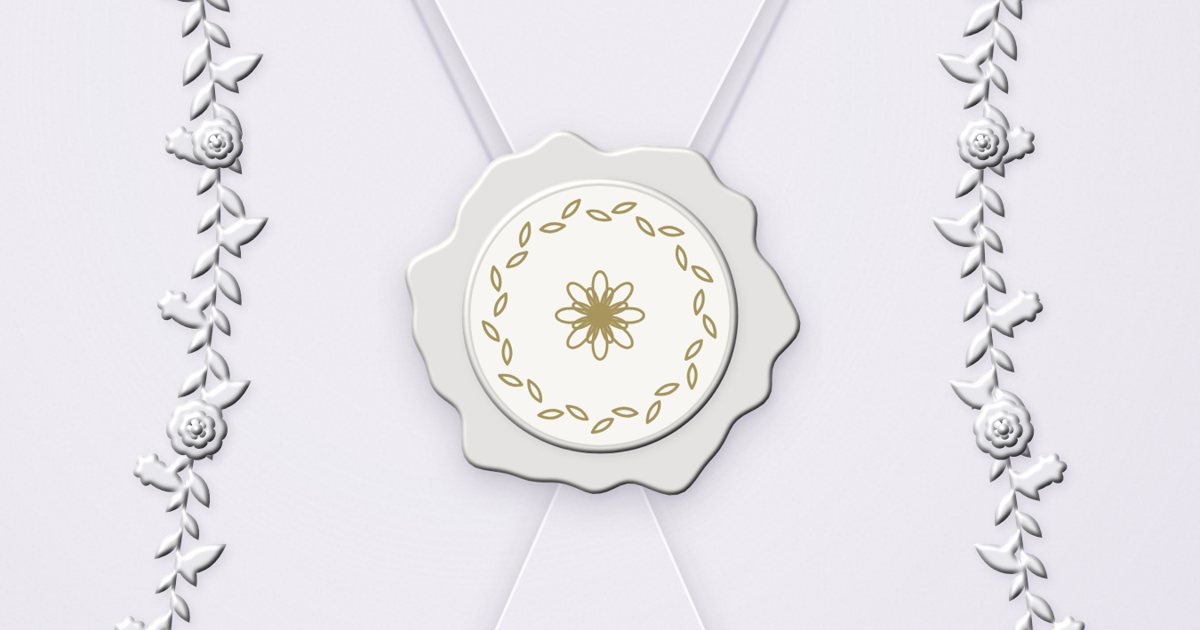
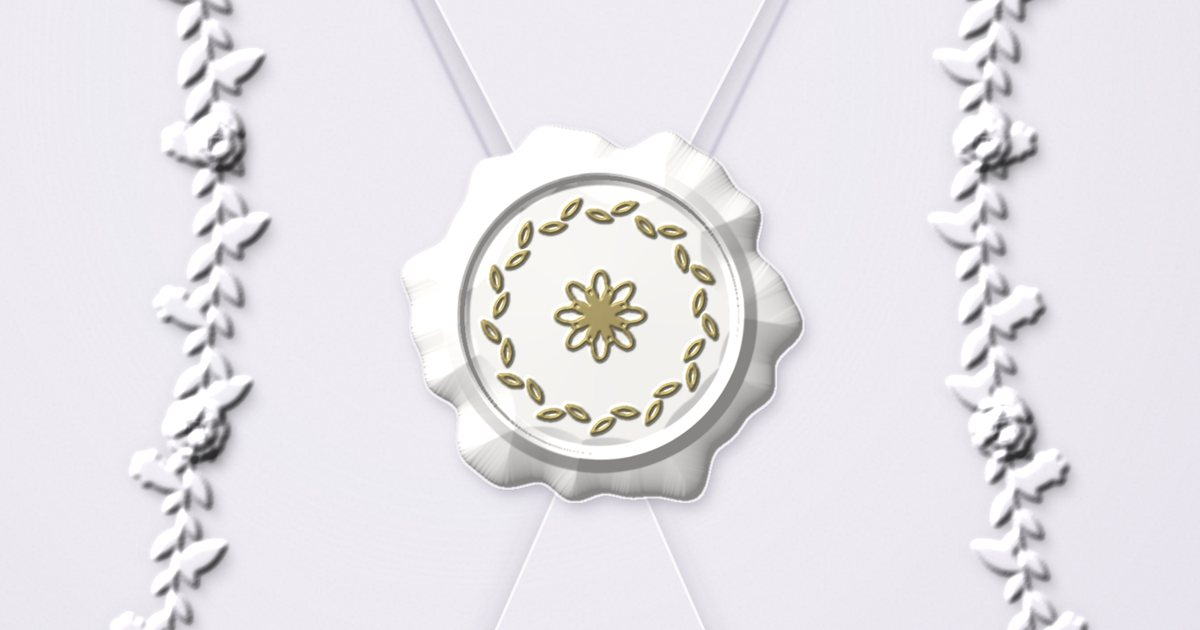
Realistic relief envelope
Claude-Session: https://claude.ai/code/session_012TaZ8zuKBP6pkFoWipGzvm

Changed region(s): [[0.3392, 0.2111, 0.6783, 0.8143], [0.7708, 0.0, 0.925, 1.0], [0.0925, 0.0, 0.2467, 1.0]]

diff --git a/ne/janti/index.html b/ne/janti/index.html
@@ -20,11 +20,12 @@ body.rd{overflow-y:auto}
 #flap .bk{transform:rotateX(180deg)}
 #seal{position:absolute;left:50%;top:44.5%;width:37%;height:auto;transform:translate(-50%,-50%);will-change:transform}
 #rays{position:absolute;left:50%;top:47%;width:260%;aspect-ratio:1;transform:translate(-50%,-50%) scale(.6);opacity:0;pointer-events:none;will-change:transform,opacity;mix-blend-mode:screen;
- background:radial-gradient(circle,#fffdf6 0,#fff1d8b0 3%,#ffe6c050 8%,transparent 16%),repeating-conic-gradient(from 2deg,#ffe8c400 0deg,#ffeccfdd 1.4deg,#ffe8c400 3.4deg,#ffe8c400 7deg,#ffe3b8a0 8.2deg,#ffe8c400 10deg,#ffe8c400 13deg);
+ background:radial-gradient(circle,#fffdf6 0,#ffe9c6c8 3%,#ffd9a860 8%,transparent 16%),repeating-conic-gradient(from 2deg,#ffe8c400 0deg,#ffd9a6ee 1.4deg,#ffe8c400 3.4deg,#ffe8c400 7deg,#ffd59cb8 8.2deg,#ffe8c400 10deg,#ffe8c400 13deg);
  -webkit-mask:radial-gradient(circle,transparent 2%,#000 4%,#000c 14%,#0005 27%,transparent 46%);mask:radial-gradient(circle,transparent 2%,#000 4%,#000c 14%,#0005 27%,transparent 46%)}
 
 #hole{position:absolute;left:0;top:0;width:100%;height:100%;opacity:0;pointer-events:none;will-change:opacity,transform;transform-origin:50% 47%;clip-path:polygon(41% 40%,59% 40%,61.5% 47%,59% 55%,41% 55%,38.5% 47%);background:radial-gradient(ellipse 16% 10% at 50% 47%,#ffffff 0,#f6f8ff 45%,#e2e6fa 100%);filter:blur(1.5px)}
 #wedge{position:absolute;inset:0;opacity:0;pointer-events:none;will-change:opacity;background:linear-gradient(90deg,transparent 22%,#7d769140 38%,transparent 41%,transparent 59%,#7d769140 62%,transparent 78%);clip-path:polygon(0 0,100% 0,62% 47%,100% 100%,0 100%,38% 47%)}
+#fsh{position:absolute;inset:0;opacity:0;pointer-events:none;background:linear-gradient(#0000 20%,#3c35501f 46%);clip-path:polygon(0 0,100% 0,50% 44.5%)}
 #flash{position:fixed;inset:0;margin:0 auto;max-width:460px;background:#fffdf9;opacity:0;pointer-events:none;z-index:15;will-change:opacity}
 .spk{position:absolute;width:14px;height:14px;margin:-7px 0 0 -7px;opacity:0;pointer-events:none;will-change:transform,opacity;background:radial-gradient(circle,#fff 0,#fff 18%,transparent 60%)}
 .spk:before,.spk:after{content:'';position:absolute;left:50%;top:50%;background:linear-gradient(90deg,transparent,#fff,transparent);transform:translate(-50%,-50%)}
@@ -113,7 +114,7 @@ body.rd #mute.on{display:flex}
  <div id="wedge"></div><div id="hole"></div><div id="rays"></div>
  <img class="lay glow" id="g1" src="../../assets2/env-glow.webp" alt="">
  <div id="spks"></div>
- <div id="flap"><div class="fc"><img class="lay" src="../../assets2/env-flap.webp" alt=""><img class="lay glow" id="g2" src="../../assets2/env-glowflap.webp" alt=""><img id="seal" src="../../assets2/seal.webp" alt=""></div><div class="bk"><img class="lay" src="../../assets2/env-flapback.webp" alt=""></div></div>
+ <div id="flap"><div class="fc"><img class="lay" src="../../assets2/env-flap.webp" alt=""><img class="lay glow" id="g2" src="../../assets2/env-glowflap.webp" alt=""><div id="fsh"></div><img id="seal" src="../../assets2/seal.webp" alt=""></div><div class="bk"><img class="lay" src="../../assets2/env-flapback.webp" alt=""></div></div>
 </div><div class="forn" id="forn"></div><div class="hint">खोल्न ट्याप गर्नुहोस्</div><b id="tagn" hidden></b></div>
 <div id="flash"></div>
 <div id="app">
@@ -219,7 +220,7 @@ function open(user){if(opened)return;if(!ready){want=user;return}opened=true;env
  SP.forEach(function(s,i){var dl=300+Math.random()*2500;an(s,[{opacity:0,transform:'scale(.2) rotate(0deg)'},{opacity:1,transform:'scale(1) rotate(45deg)',offset:.4},{opacity:0,transform:'scale(.3) rotate(90deg)'}],{duration:700+Math.random()*500,delay:dl,easing:'ease-in-out'})});
  // 3. top flap lifts open on its hinge (towards the viewer) carrying the seal
  an(flap,[{transform:'translateZ(1px) rotateX(0deg)'},{transform:'translateZ(1px) rotateX(6deg)',offset:.2},{transform:'translateZ(1px) rotateX(47deg)'}],{duration:2300,delay:3000,easing:'cubic-bezier(.45,0,.25,1)'});
- var hole=$('hole'),wedge=$('wedge');
+ var hole=$('hole'),wedge=$('wedge');an($('fsh'),[{opacity:0},{opacity:1}],{duration:2300,delay:3000,easing:'ease-in'});
  an(wedge,[{opacity:0},{opacity:1}],{duration:1600,delay:3500,easing:'ease-out'});
  an(hole,[{opacity:0,transform:'scaleY(.15)'},{opacity:1,transform:'scaleY(1)'}],{duration:1500,delay:3700,easing:'cubic-bezier(.3,0,.2,1)'});
  // 4. light pours out of the opening

diff --git a/ne/reception/index.html b/ne/reception/index.html
@@ -20,11 +20,12 @@ body.rd{overflow-y:auto}
 #flap .bk{transform:rotateX(180deg)}
 #seal{position:absolute;left:50%;top:44.5%;width:37%;height:auto;transform:translate(-50%,-50%);will-change:transform}
 #rays{position:absolute;left:50%;top:47%;width:260%;aspect-ratio:1;transform:translate(-50%,-50%) scale(.6);opacity:0;pointer-events:none;will-change:transform,opacity;mix-blend-mode:screen;
- background:radial-gradient(circle,#fffdf6 0,#fff1d8b0 3%,#ffe6c050 8%,transparent 16%),repeating-conic-gradient(from 2deg,#ffe8c400 0deg,#ffeccfdd 1.4deg,#ffe8c400 3.4deg,#ffe8c400 7deg,#ffe3b8a0 8.2deg,#ffe8c400 10deg,#ffe8c400 13deg);
+ background:radial-gradient(circle,#fffdf6 0,#ffe9c6c8 3%,#ffd9a860 8%,transparent 16%),repeating-conic-gradient(from 2deg,#ffe8c400 0deg,#ffd9a6ee 1.4deg,#ffe8c400 3.4deg,#ffe8c400 7deg,#ffd59cb8 8.2deg,#ffe8c400 10deg,#ffe8c400 13deg);
  -webkit-mask:radial-gradient(circle,transparent 2%,#000 4%,#000c 14%,#0005 27%,transparent 46%);mask:radial-gradient(circle,transparent 2%,#000 4%,#000c 14%,#0005 27%,transparent 46%)}
 
 #hole{position:absolute;left:0;top:0;width:100%;height:100%;opacity:0;pointer-events:none;will-change:opacity,transform;transform-origin:50% 47%;clip-path:polygon(41% 40%,59% 40%,61.5% 47%,59% 55%,41% 55%,38.5% 47%);background:radial-gradient(ellipse 16% 10% at 50% 47%,#ffffff 0,#f6f8ff 45%,#e2e6fa 100%);filter:blur(1.5px)}
 #wedge{position:absolute;inset:0;opacity:0;pointer-events:none;will-change:opacity;background:linear-gradient(90deg,transparent 22%,#7d769140 38%,transparent 41%,transparent 59%,#7d769140 62%,transparent 78%);clip-path:polygon(0 0,100% 0,62% 47%,100% 100%,0 100%,38% 47%)}
+#fsh{position:absolute;inset:0;opacity:0;pointer-events:none;background:linear-gradient(#0000 20%,#3c35501f 46%);clip-path:polygon(0 0,100% 0,50% 44.5%)}
 #flash{position:fixed;inset:0;margin:0 auto;max-width:460px;background:#fffdf9;opacity:0;pointer-events:none;z-index:15;will-change:opacity}
 .spk{position:absolute;width:14px;height:14px;margin:-7px 0 0 -7px;opacity:0;pointer-events:none;will-change:transform,opacity;background:radial-gradient(circle,#fff 0,#fff 18%,transparent 60%)}
 .spk:before,.spk:after{content:'';position:absolute;left:50%;top:50%;background:linear-gradient(90deg,transparent,#fff,transparent);transform:translate(-50%,-50%)}
@@ -113,7 +114,7 @@ body.rd #mute.on{display:flex}
  <div id="wedge"></div><div id="hole"></div><div id="rays"></div>
  <img class="lay glow" id="g1" src="../../assets2/env-glow.webp" alt="">
  <div id="spks"></div>
- <div id="flap"><div class="fc"><img class="lay" src="../../assets2/env-flap.webp" alt=""><img class="lay glow" id="g2" src="../../assets2/env-glowflap.webp" alt=""><img id="seal" src="../../assets2/seal.webp" alt=""></div><div class="bk"><img class="lay" src="../../assets2/env-flapback.webp" alt=""></div></div>
+ <div id="flap"><div class="fc"><img class="lay" src="../../assets2/env-flap.webp" alt=""><img class="lay glow" id="g2" src="../../assets2/env-glowflap.webp" alt=""><div id="fsh"></div><img id="seal" src="../../assets2/seal.webp" alt=""></div><div class="bk"><img class="lay" src="../../assets2/env-flapback.webp" alt=""></div></div>
 </div><div class="forn" id="forn"></div><div class="hint">खोल्न ट्याप गर्नुहोस्</div><b id="tagn" hidden></b></div>
 <div id="flash"></div>
 <div id="app">
@@ -219,7 +220,7 @@ function open(user){if(opened)return;if(!ready){want=user;return}opened=true;env
  SP.forEach(function(s,i){var dl=300+Math.random()*2500;an(s,[{opacity:0,transform:'scale(.2) rotate(0deg)'},{opacity:1,transform:'scale(1) rotate(45deg)',offset:.4},{opacity:0,transform:'scale(.3) rotate(90deg)'}],{duration:700+Math.random()*500,delay:dl,easing:'ease-in-out'})});
  // 3. top flap lifts open on its hinge (towards the viewer) carrying the seal
  an(flap,[{transform:'translateZ(1px) rotateX(0deg)'},{transform:'translateZ(1px) rotateX(6deg)',offset:.2},{transform:'translateZ(1px) rotateX(47deg)'}],{duration:2300,delay:3000,easing:'cubic-bezier(.45,0,.25,1)'});
- var hole=$('hole'),wedge=$('wedge');
+ var hole=$('hole'),wedge=$('wedge');an($('fsh'),[{opacity:0},{opacity:1}],{duration:2300,delay:3000,easing:'ease-in'});
  an(wedge,[{opacity:0},{opacity:1}],{duration:1600,delay:3500,easing:'ease-out'});
  an(hole,[{opacity:0,transform:'scaleY(.15)'},{opacity:1,transform:'scaleY(1)'}],{duration:1500,delay:3700,easing:'cubic-bezier(.3,0,.2,1)'});
  // 4. light pours out of the opening

diff --git a/ne/wedding/index.html b/ne/wedding/index.html
@@ -20,11 +20,12 @@ body.rd{overflow-y:auto}
 #flap .bk{transform:rotateX(180deg)}
 #seal{position:absolute;left:50%;top:44.5%;width:37%;height:auto;transform:translate(-50%,-50%);will-change:transform}
 #rays{position:absolute;left:50%;top:47%;width:260%;aspect-ratio:1;transform:translate(-50%,-50%) scale(.6);opacity:0;pointer-events:none;will-change:transform,opacity;mix-blend-mode:screen;
- background:radial-gradient(circle,#fffdf6 0,#fff1d8b0 3%,#ffe6c050 8%,transparent 16%),repeating-conic-gradient(from 2deg,#ffe8c400 0deg,#ffeccfdd 1.4deg,#ffe8c400 3.4deg,#ffe8c400 7deg,#ffe3b8a0 8.2deg,#ffe8c400 10deg,#ffe8c400 13deg);
+ background:radial-gradient(circle,#fffdf6 0,#ffe9c6c8 3%,#ffd9a860 8%,transparent 16%),repeating-conic-gradient(from 2deg,#ffe8c400 0deg,#ffd9a6ee 1.4deg,#ffe8c400 3.4deg,#ffe8c400 7deg,#ffd59cb8 8.2deg,#ffe8c400 10deg,#ffe8c400 13deg);
  -webkit-mask:radial-gradient(circle,transparent 2%,#000 4%,#000c 14%,#0005 27%,transparent 46%);mask:radial-gradient(circle,transparent 2%,#000 4%,#000c 14%,#0005 27%,transparent 46%)}
 
 #hole{position:absolute;left:0;top:0;width:100%;height:100%;opacity:0;pointer-events:none;will-change:opacity,transform;transform-origin:50% 47%;clip-path:polygon(41% 40%,59% 40%,61.5% 47%,59% 55%,41% 55%,38.5% 47%);background:radial-gradient(ellipse 16% 10% at 50% 47%,#ffffff 0,#f6f8ff 45%,#e2e6fa 100%);filter:blur(1.5px)}
 #wedge{position:absolute;inset:0;opacity:0;pointer-events:none;will-change:opacity;background:linear-gradient(90deg,transparent 22%,#7d769140 38%,transparent 41%,transparent 59%,#7d769140 62%,transparent 78%);clip-path:polygon(0 0,100% 0,62% 47%,100% 100%,0 100%,38% 47%)}
+#fsh{position:absolute;inset:0;opacity:0;pointer-events:none;background:linear-gradient(#0000 20%,#3c35501f 46%);clip-path:polygon(0 0,100% 0,50% 44.5%)}
 #flash{position:fixed;inset:0;margin:0 auto;max-width:460px;background:#fffdf9;opacity:0;pointer-events:none;z-index:15;will-change:opacity}
 .spk{position:absolute;width:14px;height:14px;margin:-7px 0 0 -7px;opacity:0;pointer-events:none;will-change:transform,opacity;background:radial-gradient(circle,#fff 0,#fff 18%,transparent 60%)}
 .spk:before,.spk:after{content:'';position:absolute;left:50%;top:50%;background:linear-gradient(90deg,transparent,#fff,transparent);transform:translate(-50%,-50%)}
@@ -113,7 +114,7 @@ body.rd #mute.on{display:flex}
  <div id="wedge"></div><div id="hole"></div><div id="rays"></div>
  <img class="lay glow" id="g1" src="../../assets2/env-glow.webp" alt="">
  <div id="spks"></div>
- <div id="flap"><div class="fc"><img class="lay" src="../../assets2/env-flap.webp" alt=""><img class="lay glow" id="g2" src="../../assets2/env-glowflap.webp" alt=""><img id="seal" src="../../assets2/seal.webp" alt=""></div><div class="bk"><img class="lay" src="../../assets2/env-flapback.webp" alt=""></div></div>
+ <div id="flap"><div class="fc"><img class="lay" src="../../assets2/env-flap.webp" alt=""><img class="lay glow" id="g2" src="../../assets2/env-glowflap.webp" alt=""><div id="fsh"></div><img id="seal" src="../../assets2/seal.webp" alt=""></div><div class="bk"><img class="lay" src="../../assets2/env-flapback.webp" alt=""></div></div>
 </div><div class="forn" id="forn"></div><div class="hint">खोल्न ट्याप गर्नुहोस्</div><b id="tagn" hidden></b></div>
 <div id="flash"></div>
 <div id="app">
@@ -219,7 +220,7 @@ function open(user){if(opened)return;if(!ready){want=user;return}opened=true;env
  SP.forEach(function(s,i){var dl=300+Math.random()*2500;an(s,[{opacity:0,transform:'scale(.2) rotate(0deg)'},{opacity:1,transform:'scale(1) rotate(45deg)',offset:.4},{opacity:0,transform:'scale(.3) rotate(90deg)'}],{duration:700+Math.random()*500,delay:dl,easing:'ease-in-out'})});
  // 3. top flap lifts open on its hinge (towards the viewer) carrying the seal
  an(flap,[{transform:'translateZ(1px) rotateX(0deg)'},{transform:'translateZ(1px) rotateX(6deg)',offset:.2},{transform:'translateZ(1px) rotateX(47deg)'}],{duration:2300,delay:3000,easing:'cubic-bezier(.45,0,.25,1)'});
- var hole=$('hole'),wedge=$('wedge');
+ var hole=$('hole'),wedge=$('wedge');an($('fsh'),[{opacity:0},{opacity:1}],{duration:2300,delay:3000,easing:'ease-in'});
  an(wedge,[{opacity:0},{opacity:1}],{duration:1600,delay:3500,easing:'ease-out'});
  an(hole,[{opacity:0,transform:'scaleY(.15)'},{opacity:1,transform:'scaleY(1)'}],{duration:1500,delay:3700,easing:'cubic-bezier(.3,0,.2,1)'});
  // 4. light pours out of the opening

diff --git a/janti/index.html b/janti/index.html
@@ -20,11 +20,12 @@ body.rd{overflow-y:auto}
 #flap .bk{transform:rotateX(180deg)}
 #seal{position:absolute;left:50%;top:44.5%;width:37%;height:auto;transform:translate(-50%,-50%);will-change:transform}
 #rays{position:absolute;left:50%;top:47%;width:260%;aspect-ratio:1;transform:translate(-50%,-50%) scale(.6);opacity:0;pointer-events:none;will-change:transform,opacity;mix-blend-mode:screen;
- background:radial-gradient(circle,#fffdf6 0,#fff1d8b0 3%,#ffe6c050 8%,transparent 16%),repeating-conic-gradient(from 2deg,#ffe8c400 0deg,#ffeccfdd 1.4deg,#ffe8c400 3.4deg,#ffe8c400 7deg,#ffe3b8a0 8.2deg,#ffe8c400 10deg,#ffe8c400 13deg);
+ background:radial-gradient(circle,#fffdf6 0,#ffe9c6c8 3%,#ffd9a860 8%,transparent 16%),repeating-conic-gradient(from 2deg,#ffe8c400 0deg,#ffd9a6ee 1.4deg,#ffe8c400 3.4deg,#ffe8c400 7deg,#ffd59cb8 8.2deg,#ffe8c400 10deg,#ffe8c400 13deg);
  -webkit-mask:radial-gradient(circle,transparent 2%,#000 4%,#000c 14%,#0005 27%,transparent 46%);mask:radial-gradient(circle,transparent 2%,#000 4%,#000c 14%,#0005 27%,transparent 46%)}
 
 #hole{position:absolute;left:0;top:0;width:100%;height:100%;opacity:0;pointer-events:none;will-change:opacity,transform;transform-origin:50% 47%;clip-path:polygon(41% 40%,59% 40%,61.5% 47%,59% 55%,41% 55%,38.5% 47%);background:radial-gradient(ellipse 16% 10% at 50% 47%,#ffffff 0,#f6f8ff 45%,#e2e6fa 100%);filter:blur(1.5px)}
 #wedge{position:absolute;inset:0;opacity:0;pointer-events:none;will-change:opacity;background:linear-gradient(90deg,transparent 22%,#7d769140 38%,transparent 41%,transparent 59%,#7d769140 62%,transparent 78%);clip-path:polygon(0 0,100% 0,62% 47%,100% 100%,0 100%,38% 47%)}
+#fsh{position:absolute;inset:0;opacity:0;pointer-events:none;background:linear-gradient(#0000 20%,#3c35501f 46%);clip-path:polygon(0 0,100% 0,50% 44.5%)}
 #flash{position:fixed;inset:0;margin:0 auto;max-width:460px;background:#fffdf9;opacity:0;pointer-events:none;z-index:15;will-change:opacity}
 .spk{position:absolute;width:14px;height:14px;margin:-7px 0 0 -7px;opacity:0;pointer-events:none;will-change:transform,opacity;background:radial-gradient(circle,#fff 0,#fff 18%,transparent 60%)}
 .spk:before,.spk:after{content:'';position:absolute;left:50%;top:50%;background:linear-gradient(90deg,transparent,#fff,transparent);transform:translate(-50%,-50%)}
@@ -113,7 +114,7 @@ body.rd #mute.on{display:flex}
  <div id="wedge"></div><div id="hole"></div><div id="rays"></div>
  <img class="lay glow" id="g1" src="../assets2/env-glow.webp" alt="">
  <div id="spks"></div>
- <div id="flap"><div class="fc"><img class="lay" src="../assets2/env-flap.webp" alt=""><img class="lay glow" id="g2" src="../assets2/env-glowflap.webp" alt=""><img id="seal" src="../assets2/seal.webp" alt=""></div><div class="bk"><img class="lay" src="../assets2/env-flapback.webp" alt=""></div></div>
+ <div id="flap"><div class="fc"><img class="lay" src="../assets2/env-flap.webp" alt=""><img class="lay glow" id="g2" src="../assets2/env-glowflap.webp" alt=""><div id="fsh"></div><img id="seal" src="../assets2/seal.webp" alt=""></div><div class="bk"><img class="lay" src="../assets2/env-flapback.webp" alt=""></div></div>
 </div><div class="forn" id="forn"></div><div class="hint">Tap to open</div><b id="tagn" hidden></b></div>
 <div id="flash"></div>
 <div id="app">
@@ -219,7 +220,7 @@ function open(user){if(opened)return;if(!ready){want=user;return}opened=true;env
  SP.forEach(function(s,i){var dl=300+Math.random()*2500;an(s,[{opacity:0,transform:'scale(.2) rotate(0deg)'},{opacity:1,transform:'scale(1) rotate(45deg)',offset:.4},{opacity:0,transform:'scale(.3) rotate(90deg)'}],{duration:700+Math.random()*500,delay:dl,easing:'ease-in-out'})});
  // 3. top flap lifts open on its hinge (towards the viewer) carrying the seal
  an(flap,[{transform:'translateZ(1px) rotateX(0deg)'},{transform:'translateZ(1px) rotateX(6deg)',offset:.2},{transform:'translateZ(1px) rotateX(47deg)'}],{duration:2300,delay:3000,easing:'cubic-bezier(.45,0,.25,1)'});
- var hole=$('hole'),wedge=$('wedge');
+ var hole=$('hole'),wedge=$('wedge');an($('fsh'),[{opacity:0},{opacity:1}],{duration:2300,delay:3000,easing:'ease-in'});
  an(wedge,[{opacity:0},{opacity:1}],{duration:1600,delay:3500,easing:'ease-out'});
  an(hole,[{opacity:0,transform:'scaleY(.15)'},{opacity:1,transform:'scaleY(1)'}],{duration:1500,delay:3700,easing:'cubic-bezier(.3,0,.2,1)'});
  // 4. light pours out of the opening

diff --git a/reception/index.html b/reception/index.html
@@ -20,11 +20,12 @@ body.rd{overflow-y:auto}
 #flap .bk{transform:rotateX(180deg)}
 #seal{position:absolute;left:50%;top:44.5%;width:37%;height:auto;transform:translate(-50%,-50%);will-change:transform}
 #rays{position:absolute;left:50%;top:47%;width:260%;aspect-ratio:1;transform:translate(-50%,-50%) scale(.6);opacity:0;pointer-events:none;will-change:transform,opacity;mix-blend-mode:screen;
- background:radial-gradient(circle,#fffdf6 0,#fff1d8b0 3%,#ffe6c050 8%,transparent 16%),repeating-conic-gradient(from 2deg,#ffe8c400 0deg,#ffeccfdd 1.4deg,#ffe8c400 3.4deg,#ffe8c400 7deg,#ffe3b8a0 8.2deg,#ffe8c400 10deg,#ffe8c400 13deg);
+ background:radial-gradient(circle,#fffdf6 0,#ffe9c6c8 3%,#ffd9a860 8%,transparent 16%),repeating-conic-gradient(from 2deg,#ffe8c400 0deg,#ffd9a6ee 1.4deg,#ffe8c400 3.4deg,#ffe8c400 7deg,#ffd59cb8 8.2deg,#ffe8c400 10deg,#ffe8c400 13deg);
  -webkit-mask:radial-gradient(circle,transparent 2%,#000 4%,#000c 14%,#0005 27%,transparent 46%);mask:radial-gradient(circle,transparent 2%,#000 4%,#000c 14%,#0005 27%,transparent 46%)}
 
 #hole{position:absolute;left:0;top:0;width:100%;height:100%;opacity:0;pointer-events:none;will-change:opacity,transform;transform-origin:50% 47%;clip-path:polygon(41% 40%,59% 40%,61.5% 47%,59% 55%,41% 55%,38.5% 47%);background:radial-gradient(ellipse 16% 10% at 50% 47%,#ffffff 0,#f6f8ff 45%,#e2e6fa 100%);filter:blur(1.5px)}
 #wedge{position:absolute;inset:0;opacity:0;pointer-events:none;will-change:opacity;background:linear-gradient(90deg,transparent 22%,#7d769140 38%,transparent 41%,transparent 59%,#7d769140 62%,transparent 78%);clip-path:polygon(0 0,100% 0,62% 47%,100% 100%,0 100%,38% 47%)}
+#fsh{position:absolute;inset:0;opacity:0;pointer-events:none;background:linear-gradient(#0000 20%,#3c35501f 46%);clip-path:polygon(0 0,100% 0,50% 44.5%)}
 #flash{position:fixed;inset:0;margin:0 auto;max-width:460px;background:#fffdf9;opacity:0;pointer-events:none;z-index:15;will-change:opacity}
 .spk{position:absolute;width:14px;height:14px;margin:-7px 0 0 -7px;opacity:0;pointer-events:none;will-change:transform,opacity;background:radial-gradient(circle,#fff 0,#fff 18%,transparent 60%)}
 .spk:before,.spk:after{content:'';position:absolute;left:50%;top:50%;background:linear-gradient(90deg,transparent,#fff,transparent);transform:translate(-50%,-50%)}
@@ -113,7 +114,7 @@ body.rd #mute.on{display:flex}
  <div id="wedge"></div><div id="hole"></div><div id="rays"></div>
  <img class="lay glow" id="g1" src="../assets2/env-glow.webp" alt="">
  <div id="spks"></div>
- <div id="flap"><div class="fc"><img class="lay" src="../assets2/env-flap.webp" alt=""><img class="lay glow" id="g2" src="../assets2/env-glowflap.webp" alt=""><img id="seal" src="../assets2/seal.webp" alt=""></div><div class="bk"><img class="lay" src="../assets2/env-flapback.webp" alt=""></div></div>
+ <div id="flap"><div class="fc"><img class="lay" src="../assets2/env-flap.webp" alt=""><img class="lay glow" id="g2" src="../assets2/env-glowflap.webp" alt=""><div id="fsh"></div><img id="seal" src="../assets2/seal.webp" alt=""></div><div class="bk"><img class="lay" src="../assets2/env-flapback.webp" alt=""></div></div>
 </div><div class="forn" id="forn"></div><div class="hint">Tap to open</div><b id="tagn" hidden></b></div>
 <div id="flash"></div>
 <div id="app">
@@ -219,7 +220,7 @@ function open(user){if(opened)return;if(!ready){want=user;return}opened=true;env
  SP.forEach(function(s,i){var dl=300+Math.random()*2500;an(s,[{opacity:0,transform:'scale(.2) rotate(0deg)'},{opacity:1,transform:'scale(1) rotate(45deg)',offset:.4},{opacity:0,transform:'scale(.3) rotate(90deg)'}],{duration:700+Math.random()*500,delay:dl,easing:'ease-in-out'})});
  // 3. top flap lifts open on its hinge (towards the viewer) carrying the seal
  an(flap,[{transform:'translateZ(1px) rotateX(0deg)'},{transform:'translateZ(1px) rotateX(6deg)',offset:.2},{transform:'translateZ(1px) rotateX(47deg)'}],{duration:2300,delay:3000,easing:'cubic-bezier(.45,0,.25,1)'});
- var hole=$('hole'),wedge=$('wedge');
+ var hole=$('hole'),wedge=$('wedge');an($('fsh'),[{opacity:0},{opacity:1}],{duration:2300,delay:3000,easing:'ease-in'});
  an(wedge,[{opacity:0},{opacity:1}],{duration:1600,delay:3500,easing:'ease-out'});
  an(hole,[{opacity:0,transform:'scaleY(.15)'},{opacity:1,transform:'scaleY(1)'}],{duration:1500,delay:3700,easing:'cubic-bezier(.3,0,.2,1)'});
  // 4. light pours out of the opening

diff --git a/wedding/index.html b/wedding/index.html
@@ -20,11 +20,12 @@ body.rd{overflow-y:auto}
 #flap .bk{transform:rotateX(180deg)}
 #seal{position:absolute;left:50%;top:44.5%;width:37%;height:auto;transform:translate(-50%,-50%);will-change:transform}
 #rays{position:absolute;left:50%;top:47%;width:260%;aspect-ratio:1;transform:translate(-50%,-50%) scale(.6);opacity:0;pointer-events:none;will-change:transform,opacity;mix-blend-mode:screen;
- background:radial-gradient(circle,#fffdf6 0,#fff1d8b0 3%,#ffe6c050 8%,transparent 16%),repeating-conic-gradient(from 2deg,#ffe8c400 0deg,#ffeccfdd 1.4deg,#ffe8c400 3.4deg,#ffe8c400 7deg,#ffe3b8a0 8.2deg,#ffe8c400 10deg,#ffe8c400 13deg);
+ background:radial-gradient(circle,#fffdf6 0,#ffe9c6c8 3%,#ffd9a860 8%,transparent 16%),repeating-conic-gradient(from 2deg,#ffe8c400 0deg,#ffd9a6ee 1.4deg,#ffe8c400 3.4deg,#ffe8c400 7deg,#ffd59cb8 8.2deg,#ffe8c400 10deg,#ffe8c400 13deg);
  -webkit-mask:radial-gradient(circle,transparent 2%,#000 4%,#000c 14%,#0005 27%,transparent 46%);mask:radial-gradient(circle,transparent 2%,#000 4%,#000c 14%,#0005 27%,transparent 46%)}
 
 #hole{position:absolute;left:0;top:0;width:100%;height:100%;opacity:0;pointer-events:none;will-change:opacity,transform;transform-origin:50% 47%;clip-path:polygon(41% 40%,59% 40%,61.5% 47%,59% 55%,41% 55%,38.5% 47%);background:radial-gradient(ellipse 16% 10% at 50% 47%,#ffffff 0,#f6f8ff 45%,#e2e6fa 100%);filter:blur(1.5px)}
 #wedge{position:absolute;inset:0;opacity:0;pointer-events:none;will-change:opacity;background:linear-gradient(90deg,transparent 22%,#7d769140 38%,transparent 41%,transparent 59%,#7d769140 62%,transparent 78%);clip-path:polygon(0 0,100% 0,62% 47%,100% 100%,0 100%,38% 47%)}
+#fsh{position:absolute;inset:0;opacity:0;pointer-events:none;background:linear-gradient(#0000 20%,#3c35501f 46%);clip-path:polygon(0 0,100% 0,50% 44.5%)}
 #flash{position:fixed;inset:0;margin:0 auto;max-width:460px;background:#fffdf9;opacity:0;pointer-events:none;z-index:15;will-change:opacity}
 .spk{position:absolute;width:14px;height:14px;margin:-7px 0 0 -7px;opacity:0;pointer-events:none;will-change:transform,opacity;background:radial-gradient(circle,#fff 0,#fff 18%,transparent 60%)}
 .spk:before,.spk:after{content:'';position:absolute;left:50%;top:50%;background:linear-gradient(90deg,transparent,#fff,transparent);transform:translate(-50%,-50%)}
@@ -113,7 +114,7 @@ body.rd #mute.on{display:flex}
  <div id="wedge"></div><div id="hole"></div><div id="rays"></div>
  <img class="lay glow" id="g1" src="../assets2/env-glow.webp" alt="">
  <div id="spks"></div>
- <div id="flap"><div class="fc"><img class="lay" src="../assets2/env-flap.webp" alt=""><img class="lay glow" id="g2" src="../assets2/env-glowflap.webp" alt=""><img id="seal" src="../assets2/seal.webp" alt=""></div><div class="bk"><img class="lay" src="../assets2/env-flapback.webp" alt=""></div></div>
+ <div id="flap"><div class="fc"><img class="lay" src="../assets2/env-flap.webp" alt=""><img class="lay glow" id="g2" src="../assets2/env-glowflap.webp" alt=""><div id="fsh"></div><img id="seal" src="../assets2/seal.webp" alt=""></div><div class="bk"><img class="lay" src="../assets2/env-flapback.webp" alt=""></div></div>
 </div><div class="forn" id="forn"></div><div class="hint">Tap to open</div><b id="tagn" hidden></b></div>
 <div id="flash"></div>
 <div id="app">
@@ -219,7 +220,7 @@ function open(user){if(opened)return;if(!ready){want=user;return}opened=true;env
  SP.forEach(function(s,i){var dl=300+Math.random()*2500;an(s,[{opacity:0,transform:'scale(.2) rotate(0deg)'},{opacity:1,transform:'scale(1) rotate(45deg)',offset:.4},{opacity:0,transform:'scale(.3) rotate(90deg)'}],{duration:700+Math.random()*500,delay:dl,easing:'ease-in-out'})});
  // 3. top flap lifts open on its hinge (towards the viewer) carrying the seal
  an(flap,[{transform:'translateZ(1px) rotateX(0deg)'},{transform:'translateZ(1px) rotateX(6deg)',offset:.2},{transform:'translateZ(1px) rotateX(47deg)'}],{duration:2300,delay:3000,easing:'cubic-bezier(.45,0,.25,1)'});
- var hole=$('hole'),wedge=$('wedge');
+ var hole=$('hole'),wedge=$('wedge');an($('fsh'),[{opacity:0},{opacity:1}],{duration:2300,delay:3000,easing:'ease-in'});
  an(wedge,[{opacity:0},{opacity:1}],{duration:1600,delay:3500,easing:'ease-out'});
  an(hole,[{opacity:0,transform:'scaleY(.15)'},{opacity:1,transform:'scaleY(1)'}],{duration:1500,delay:3700,easing:'cubic-bezier(.3,0,.2,1)'});
  // 4. light pours out of the opening
